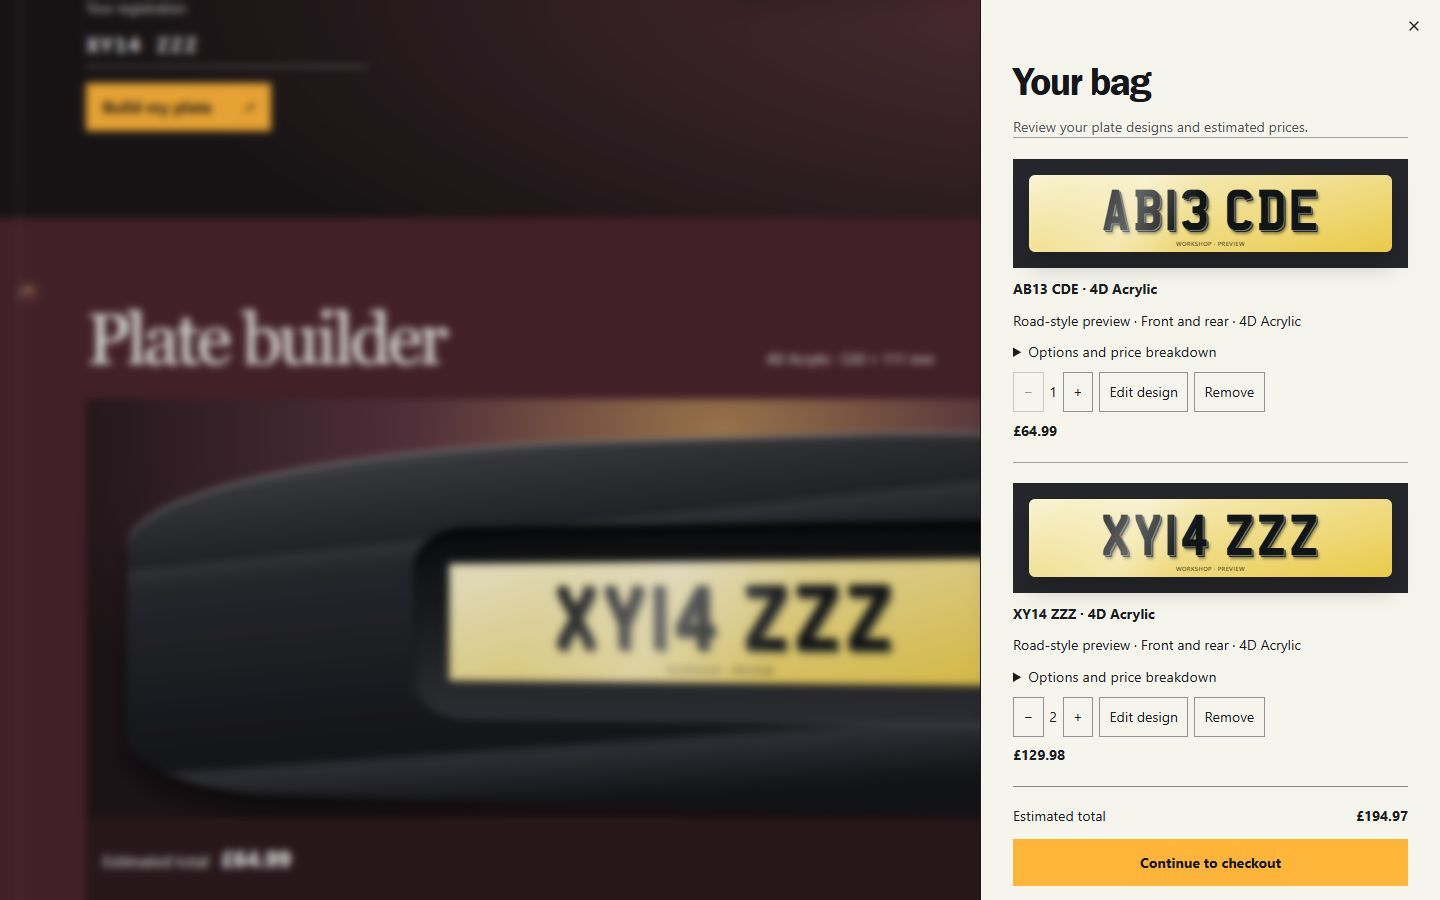
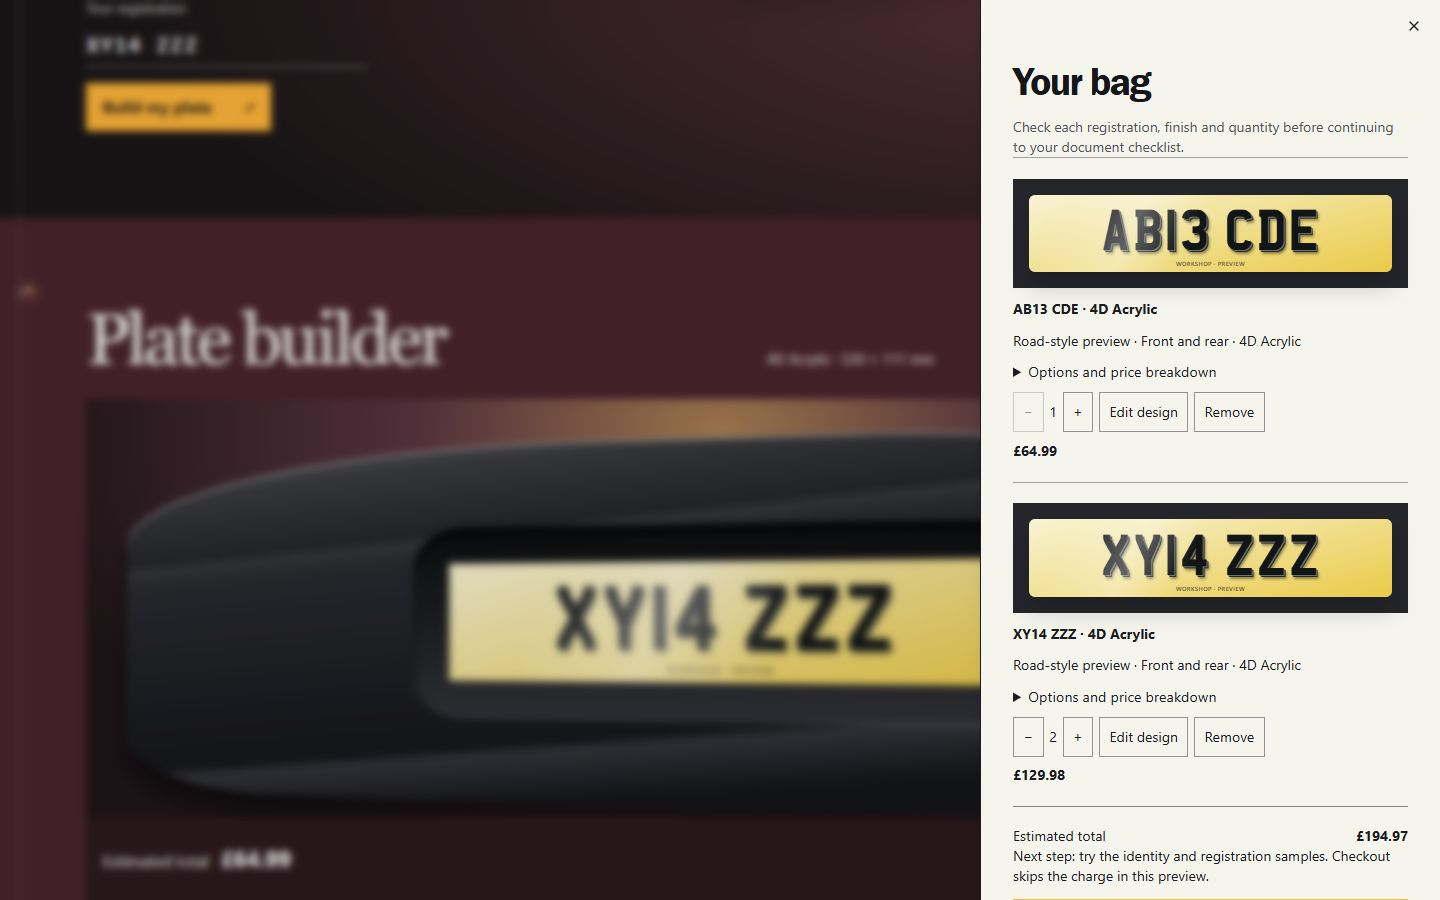
Verify review checkout recovery and configure launch indexing

Changed region(s): [[0.6875, 0.1244, 1.0, 0.8711], [0.6875, 0.9022, 1.0, 1.0]]

diff --git a/premium-plates-site/src/components/SampleChecklist.tsx b/premium-plates-site/src/components/SampleChecklist.tsx
@@ -1,5 +1,5 @@
 "use client";
-import { useState } from "react";
+import { useEffect, useState } from "react";
 import { FileText, Download, Send } from "lucide-react";
 import { ruleSources } from "@/config/plateRules";
 
@@ -10,9 +10,21 @@ const slots = [
 type Slot = typeof slots[number]["id"];
 const sample = (id:Slot) => "/Premium-Plates/samples/"+id+".txt";
 
+const receiver = "/Premium-Plates/api/sample-documents";
 export default function SampleChecklist({order,onReceived}:{order:string;onReceived:(receipt:string)=>void}) {
   const [files,setFiles]=useState<Partial<Record<Slot,File>>>({});
   const [busy,setBusy]=useState(false),[error,setError]=useState("");
+  const [available, setAvailable] = useState<boolean | null>(null);
+
+  useEffect(() => {
+    const controller = new AbortController();
+    fetch(receiver, { signal: controller.signal })
+      .then(response => response.ok ? response.json() : null)
+      .then(status => { if (!controller.signal.aborted) setAvailable(status?.acceptsSamples === true); })
+      .catch(() => { if (!controller.signal.aborted) setAvailable(false); });
+    return () => controller.abort();
+  }, []);
+
   async function send() {
     setBusy(true);setError("");
     try {
@@ -26,7 +38,7 @@ export default function SampleChecklist({order,onReceived}:{order:string;onRecei
         if(content!==await response.text()) throw new Error("Choose the original "+title.toLowerCase()+" sample. Personal files cannot be sent here.");
         payload[id]=content;
       }
-      const response=await fetch("/Premium-Plates/api/sample-documents",{method:"POST",headers:{"Content-Type":"application/json","X-Preview-Order":order},body:JSON.stringify(payload)});
+      const response=await fetch(receiver,{method:"POST",headers:{"Content-Type":"application/json","X-Preview-Order":order},body:JSON.stringify(payload)});
       if(!response.ok) throw new Error("The preview receiver is unavailable. Your selections are ready to retry.");
       const result=await response.json();
       if(typeof result.receipt!=="string" || !result.receipt) throw new Error("No receipt arrived. Please try again.");
@@ -40,10 +52,11 @@ export default function SampleChecklist({order,onReceived}:{order:string;onRecei
       <div className="route-index"><span>DOCUMENT 0{i+1}</span><FileText aria-hidden="true"/></div>
       <h3>{title}</h3><p>{copy}</p><a download href={sample(id)}><Download size={16}/> Download sample (.txt)</a>
       <label htmlFor={"file-"+id}>Attach {title.toLowerCase()} sample</label>
-      <input id={"file-"+id} type="file" accept=".txt,text/plain" disabled={busy} onChange={e=>{const file=e.target.files?.[0];setFiles(old=>({...old,[id]:file}));setError("");}}/>
+      <input id={"file-"+id} type="file" accept=".txt,text/plain" disabled={busy || available !== true} onChange={e=>{const file=e.target.files?.[0];setFiles(old=>({...old,[id]:file}));setError("");}}/>
     </article>)}</div>
     <p className="originals-note">For a road plate, the supplier must see accepted originals. <a href={ruleSources.evidence.url}>View the full GOV.UK list</a>.</p>
     {error&&<p role="alert">{error}</p>}
-    <button disabled={busy||!files.identity||!files.entitlement} onClick={send}><Send size={16}/>{busy?"Sending samples…":"Send both documents"}</button>
+    {available === false && <p role="status">Samples are available to download. Use the local preview server to practise sending them.</p>}
+    <button disabled={available !== true || busy || !files.identity || !files.entitlement} onClick={send}><Send size={16}/>{busy?"Sending samples…":"Send both documents"}</button>
   </section>;
 }

diff --git a/premium-plates-site/tests/registration-entry.test.ts b/premium-plates-site/tests/registration-entry.test.ts
@@ -25,3 +25,14 @@ test("Display text and road registration have separate ordering rules", () => {
   assert.equal(registrationEntry("Q123 ABC", false).ready, true);
   assert.equal(registrationEntry("BIG 1234", false).ready, true);
 });
+
+test("Registration format checks keep ambiguous and non-ASCII characters intact", () => {
+  for (const input of ["AB5O CDE", "AB51 CD0", "ＡB51 CDE", "АB51 CDE", "AB51\tCDE", "AB51 CDE🚘"]) {
+    const result = registrationEntry(input, false);
+    assert.equal(result.ready, false, input);
+    assert.equal(result.correction, undefined, input);
+  }
+  for (const input of ["A123 BCD", "ABC 123D", "BIG 1234", "1234 AB"]) {
+    assert.equal(registrationEntry(input, false).ready, true, input);
+  }
+});

diff --git a/docs/seo-launch.md b/docs/seo-launch.md
@@ -2,6 +2,12 @@
 
 The review build uses noindex on storefront pages. Set STOREFRONT_PUBLIC_URL to the approved full storefront URL, including its deployed base path, before building the public release. The current Next export uses /Premium-Plates/. If the live store moves to a domain root, align the app base path and asset/link prefixes before release.
 
+For GitHub Pages, set the repository Actions variable `STOREFRONT_PUBLIC_URL` to that same approved URL. The deployment workflow passes it to the build. Leave the variable empty for a review build.
+
+## Checkout on review builds
+
+Run `node scripts/serve-preview.mjs` from `premium-plates-site` after building to exercise sample submission and receipts. GitHub Pages serves the sample downloads and checklist. The checklist disables submission when the sample receiver is unavailable. Production evidence intake requires server-capable hosting, private document storage and a supplier review workflow.
+
 ## Before indexing
 
 Build with the final domain. Inspect the homepage, About, collection and seven product URLs in the generated sitemap. Each should return 200 and point its canonical at itself. Check that checkout, sample order links and release notes remain excluded. On a subdirectory deployment, the domain owner manages the root robots.txt. Put the final sitemap URL there or submit the sitemap directly in the verified Search Console property.
